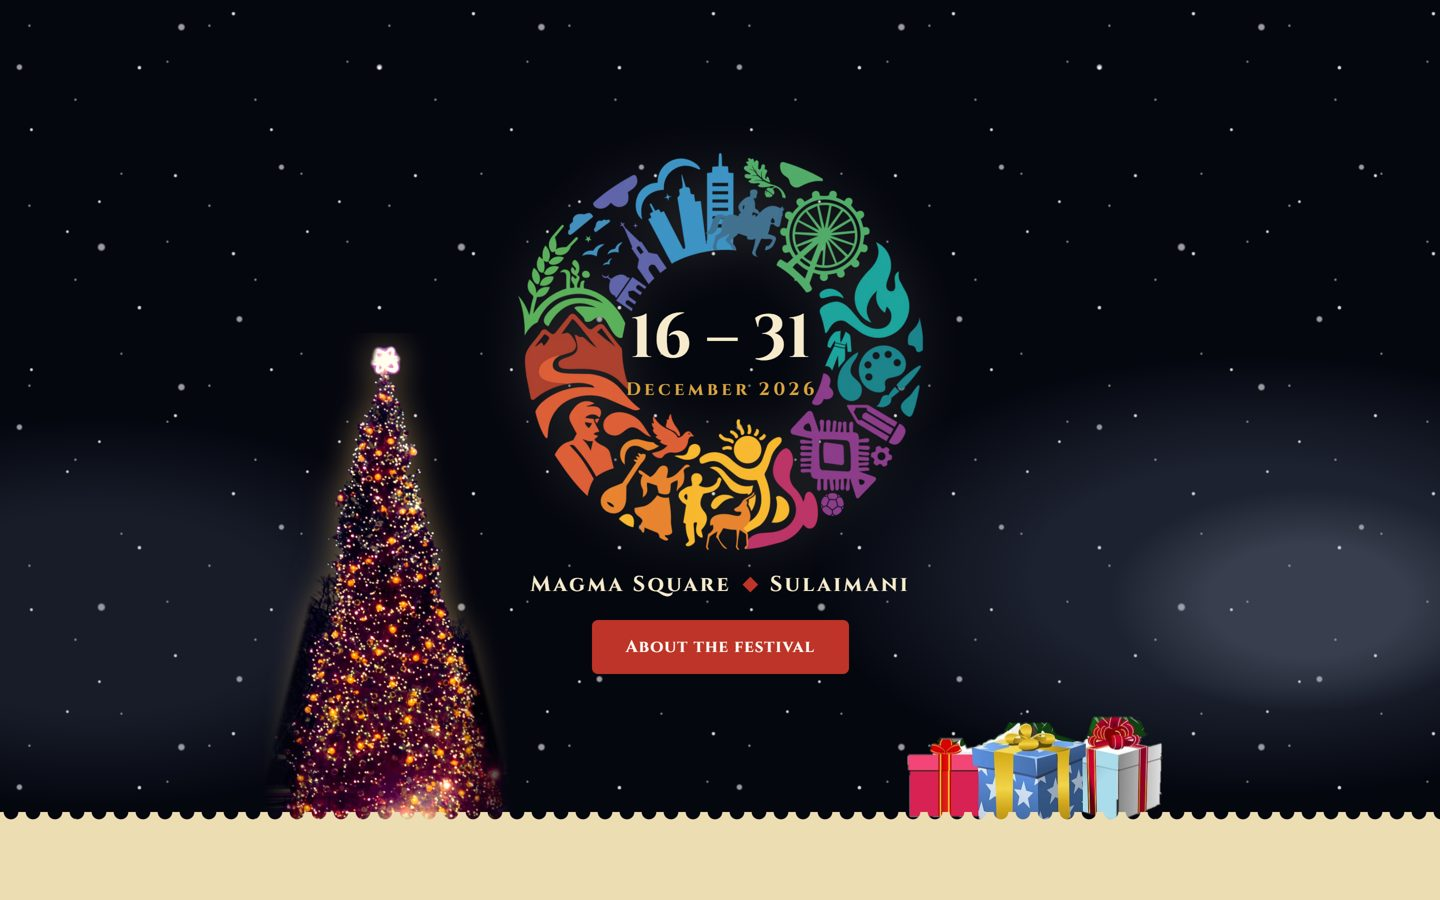
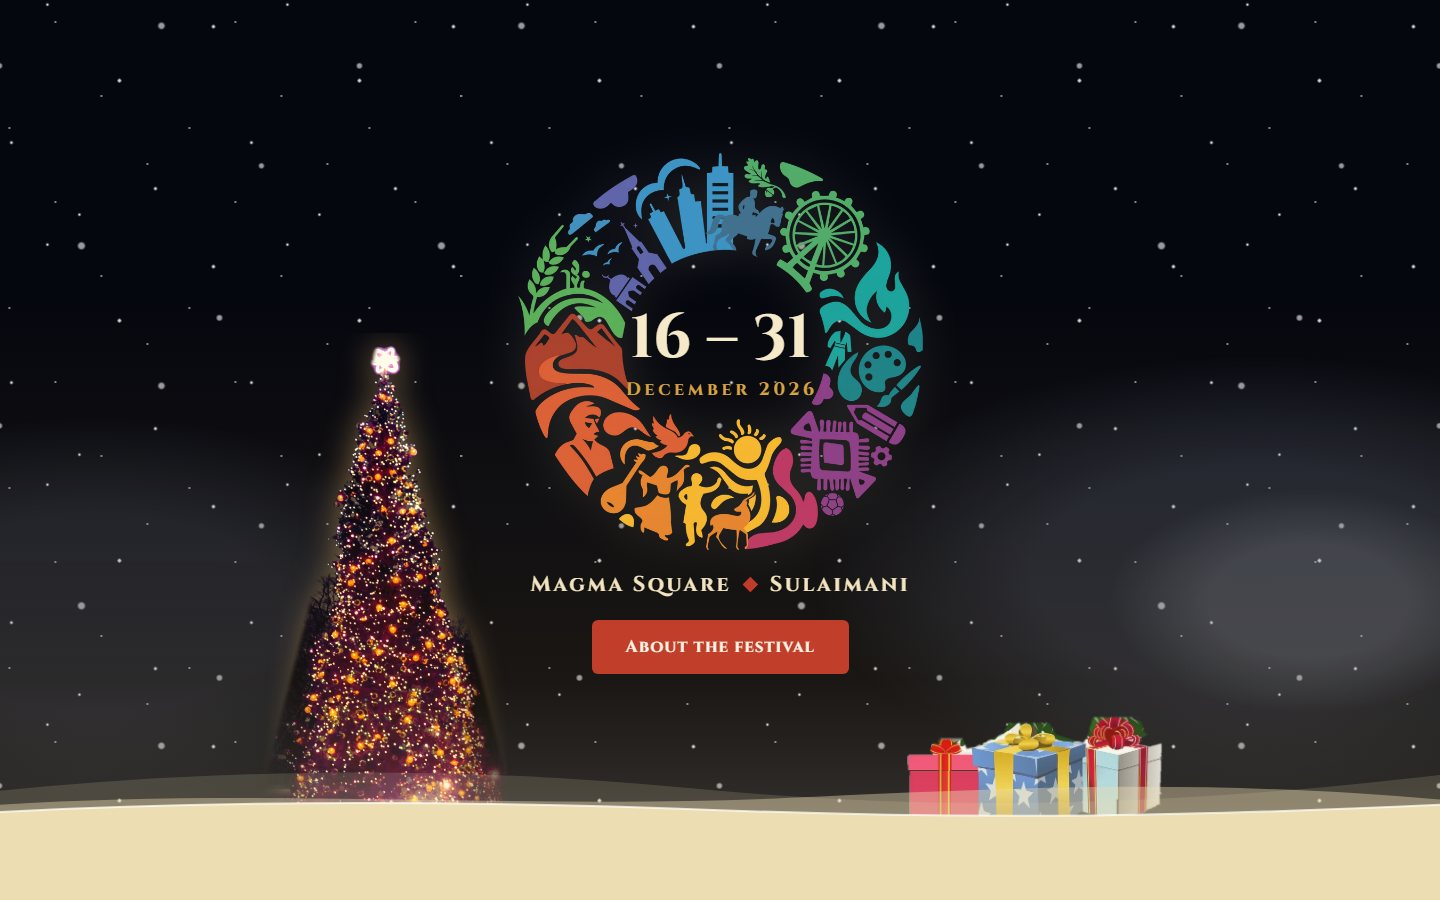
Docs: plan 006 addition (snow hills between the night and the paper), preview update

diff --git a/docs/design/home-v2-preview/brand.css b/docs/design/home-v2-preview/brand.css
@@ -185,14 +185,24 @@ body { font-family: var(--font-text); background: var(--paper); }
 .btn-card { font-size: max(14px, calc(15 * var(--v))); }
 .s-card a:focus-visible { outline-color: var(--cream); }
 
-/* The ground is the paper. Its top edge is cut like the edge of a stamp. */
-.ground-fill { top: 12px; background: var(--paper); }
-.ground-top {
-  top: 0;
-  height: 13px;
-  border-radius: 0;
-  background: radial-gradient(circle at 11px 0, transparent 7px, var(--paper) 7.6px) 0 0 / 22px 13px repeat-x;
+/* Where the night meets the paper: three snow hills in the paper colour.
+   The far ones are thin (the night shows through), the front one is the paper itself,
+   so the page under the hero starts with no line. A warm glow rises above them. */
+.s-ground { height: calc(var(--ground-h) * 1.6); } /* in the hills drawing, y = 60 is the line the tree and the gifts stand on */
+.ground-glow {
+  position: absolute;
+  left: 0;
+  right: 0;
+  bottom: 30%;
+  height: 420%;
+  background: linear-gradient(to top, rgba(237, 221, 179, .22) 0%, rgba(217, 164, 65, .10) 30%, rgba(217, 164, 65, 0) 100%);
+  pointer-events: none;
 }
+.ground-hills { position: absolute; left: 0; bottom: -1px; width: 100%; height: 100%; }
+.hill { fill: var(--paper); }
+.hill-far { opacity: .16; }
+.hill-mid { opacity: .42; }
+.hill-edge { fill: none; stroke: var(--ivory); stroke-width: 2; opacity: .75; vector-effect: non-scaling-stroke; }
 
 @media (max-aspect-ratio: 1/1), (max-width: 700px) {
   .site-header { padding: 14px 18px; }

diff --git a/docs/design/home-v2-preview/index.html b/docs/design/home-v2-preview/index.html
@@ -158,8 +158,13 @@
     </div>
 
     <div class="s-ground" aria-hidden="true">
-      <div class="ground-fill"></div>
-      <div class="ground-top"></div>
+      <div class="ground-glow"></div>
+      <svg class="ground-hills" viewBox="0 0 1440 160" preserveAspectRatio="none" focusable="false">
+        <path class="hill hill-far" d="M0 34 C 220 8, 460 6, 680 30 S 1120 58, 1440 16 V160 H0 Z"/>
+        <path class="hill hill-mid" d="M0 50 C 260 30, 540 56, 790 42 S 1220 22, 1440 44 V160 H0 Z"/>
+        <path class="hill hill-front" d="M0 58 C 200 46, 440 44, 720 56 S 1200 62, 1440 50 V160 H0 Z"/>
+        <path class="hill-edge" d="M0 58 C 200 46, 440 44, 720 56 S 1200 62, 1440 50"/>
+      </svg>
     </div>
   </section>
 

diff --git a/docs/plans/006-story-sulifest-italk-christmas-nights.md b/docs/plans/006-story-sulifest-italk-christmas-nights.md
@@ -117,3 +117,24 @@ Do not add a visitor number for SuliFest. The public numbers are a forecast (500
 - Photos of SuliFest 2026 (none are in the project; ask italk).
 - Kurdish and Arabic text.
 - Separate "About SuliFest" and "About italk" pages (plan 003).
+
+## Addition (2026-11-27): the join between the night and the paper
+
+The user looked at the end of the hero and said the two background colours do not match: the dark night stops with a hard cut and the cream paper starts. The row of small half circles (the stamp edge) made the cut even harder.
+
+New rule for the bottom of scene 2 (built in the preview, see `screenshots/join-night-to-paper-*.jpg`):
+
+| Part | Rule |
+|---|---|
+| The stamp edge under the hero | Removed here. It stays on the two green sections |
+| Snow hills | One inline `<svg class="ground-hills">` inside `.s-ground` (view box `0 0 1440 160`, `preserveAspectRatio="none"`) with three hills, all in the Paper colour `#EDDDB3`: the far hill at 16% opacity, the middle hill at 42%, the front hill at 100%. So the colour steps from night to paper in three tones, and the page under the hero starts with no line |
+| White edge | A 2 px Ivory line on top of the front hill (75% opacity, `vector-effect: non-scaling-stroke`), like light on snow |
+| Height | `.s-ground` is `1.6 ×` the old ground height. In the drawing, y = 60 is the line the tree and the gifts stand on. The front hill stays between y = 44 and y = 62, so it always covers their bottom edge |
+| Warm glow | `.ground-glow`: a soft gradient that rises from the hills, from Paper at 22% to Bright gold at 10% to nothing. It warms the dark blue near the ground, so the night and the paper share a tone |
+| Movement | None of its own. The hills and the glow are inside `.s-ground`, which the GSAP timeline already moves |
+
+Security: inline SVG with classes only, no inline style, no new file. The CSP line does not change.
+
+Add to the done-when list:
+
+- [ ] At the end of the hero there is no hard line between the night and the paper, at 375 px, 768 px and 1440 px. The tree and the gifts stand on the front hill; their bottom edges are not visible.
